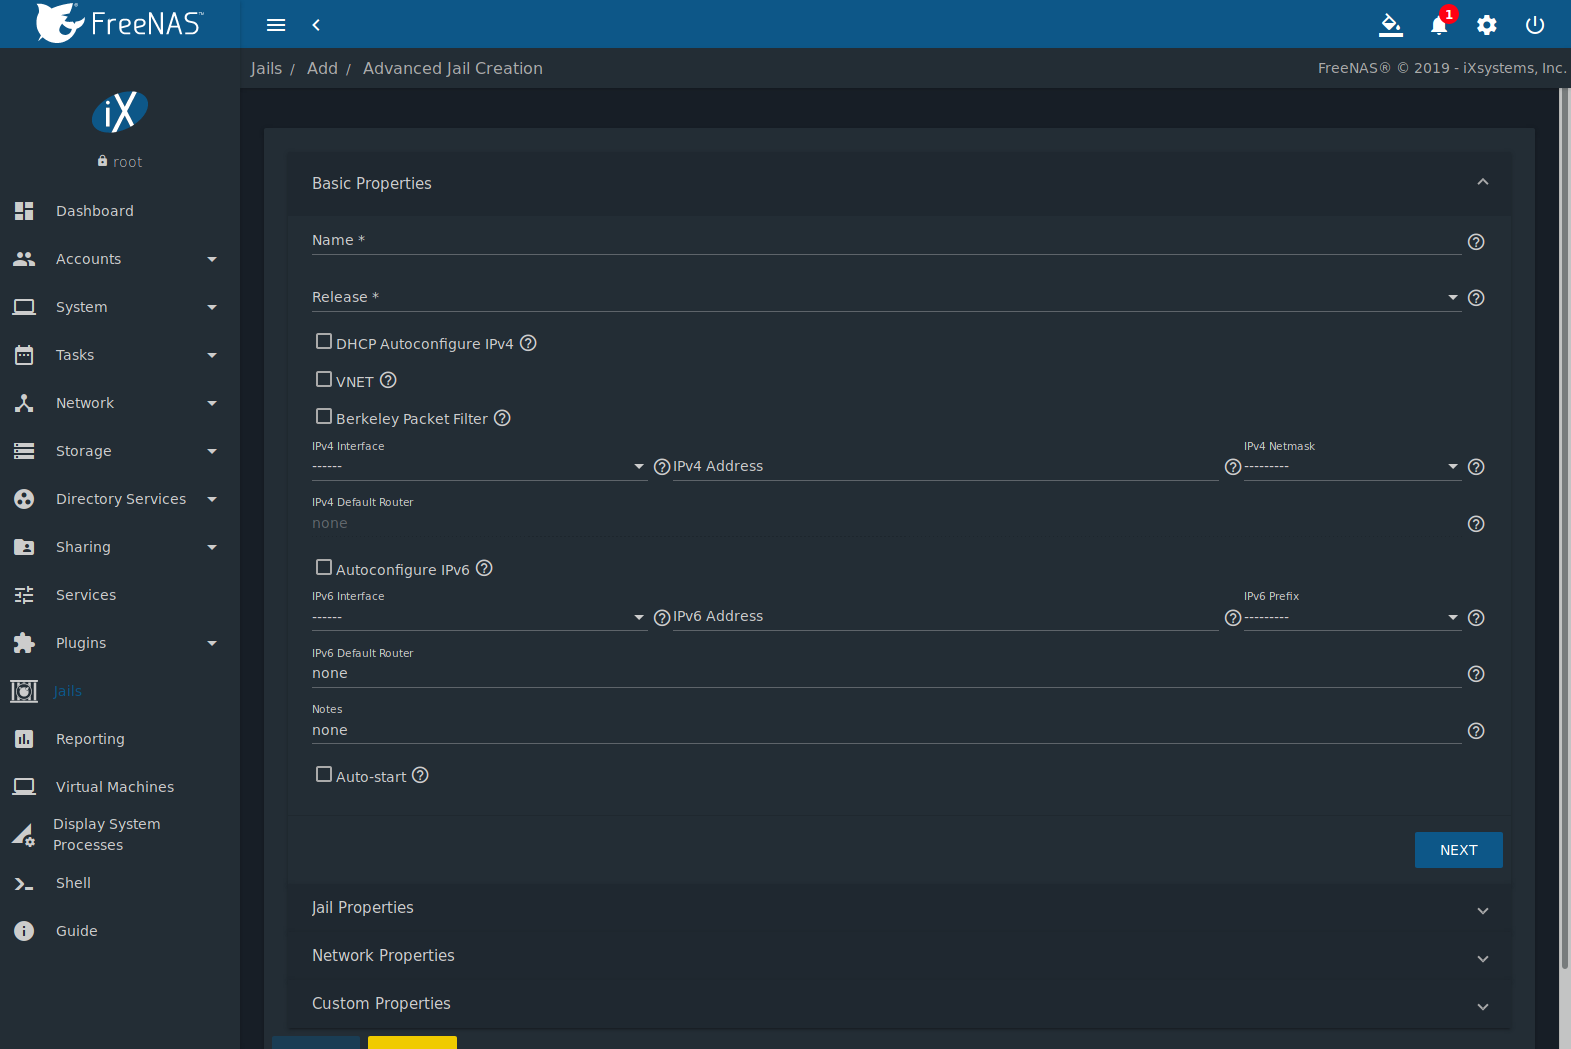
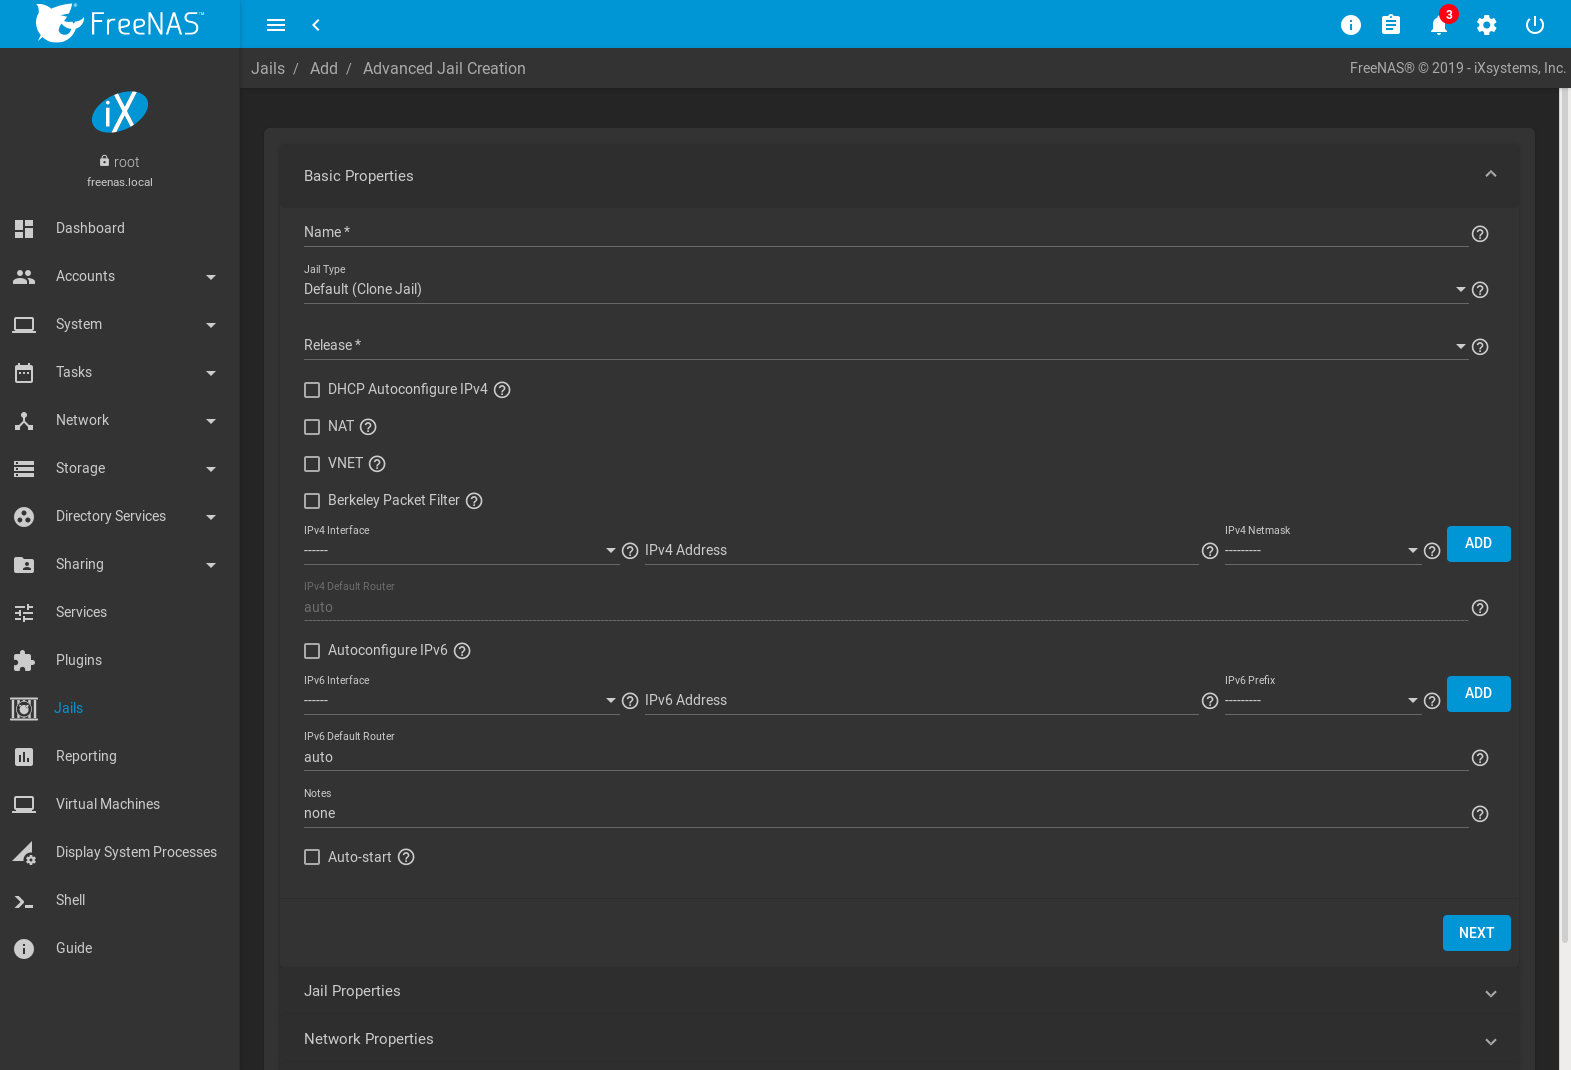
NAS-101350: Update Jail networking description - Update related images. - HTML build test: no issues.

diff --git a/userguide/jails.rst b/userguide/jails.rst
@@ -175,8 +175,9 @@ Jails support several different networking solutions:
   combination of these fields can be configured. Multiple interfaces
   are supported in the :guilabel:`IPv4 Address` and
   :guilabel:`IPv6 Address` fields by entering a comma-delimited
-  list of interfaces, addresses, and netmasks in the format
-  :literal:`interface|ipaddress/netmask`.
+  address list. Leaving the :guilabel:`IPv4 Default Router` and
+  :guilabel:`IPv6 Default Router` fields empty automatically configures
+  these values.
 
 - Leaving all checkboxes unset and fields empty initializes the jail
   without any networking abilities. Networking can be added to the jail
